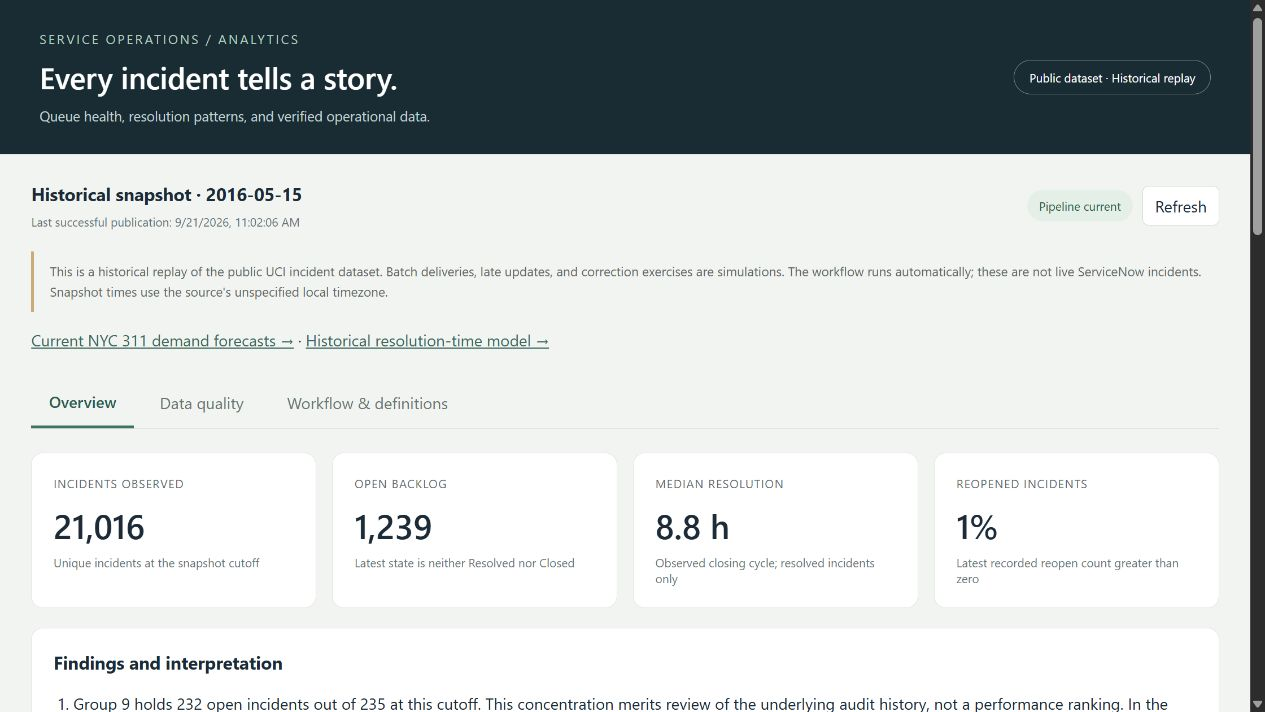
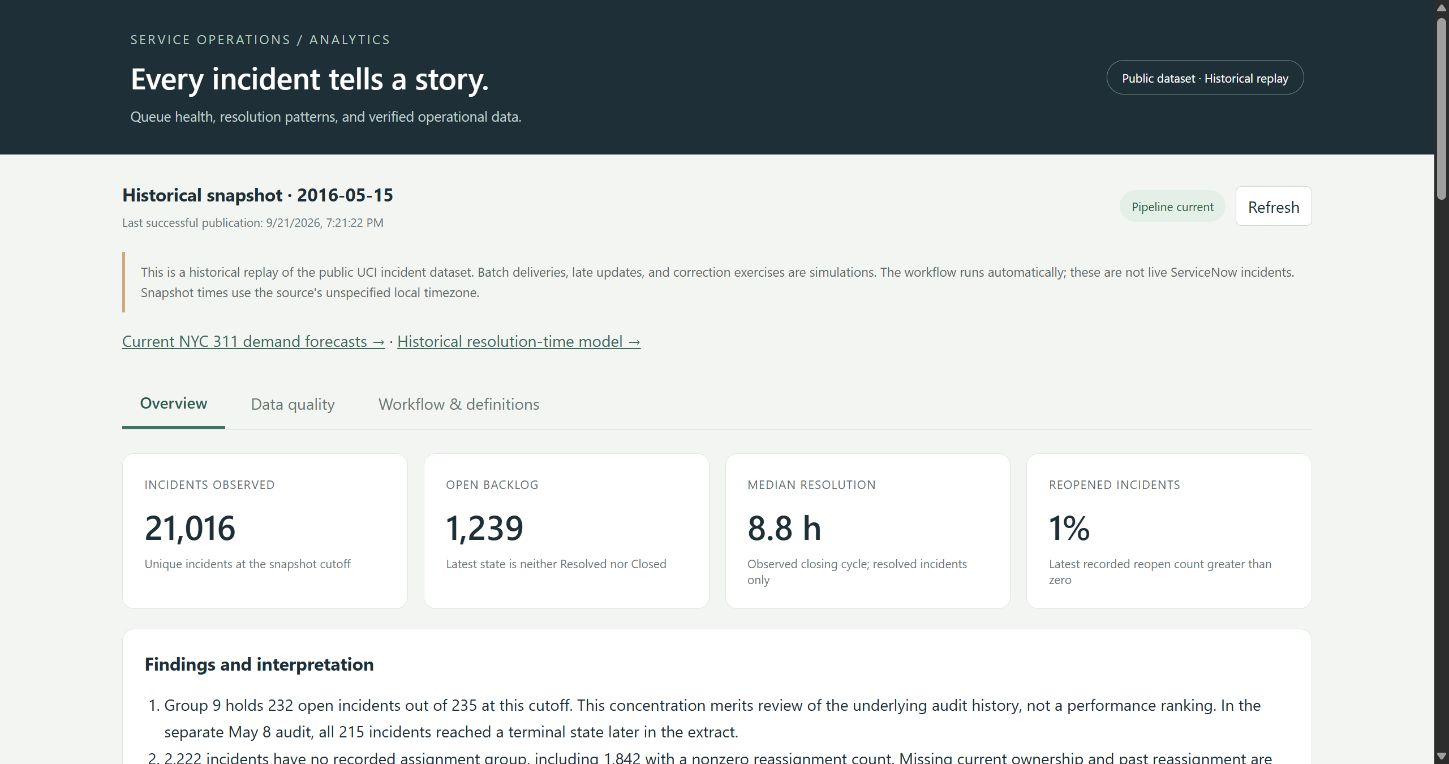
Refresh live screenshots and measured deployment evidence

diff --git a/README.md b/README.md
@@ -8,9 +8,11 @@ The dashboards include a weekday/lead-time error heatmap, interval calibration, 
 
 **[IT dashboard](https://d17q1whdf7htno.cloudfront.net/) · [Current NYC 311 forecasts](https://d17q1whdf7htno.cloudfront.net/forecast/index.html) · [Resolution model](https://d17q1whdf7htno.cloudfront.net/resolution/index.html)**
 
-Screenshots captured from the deployed website on September 21, 2026. The pages continue updating on their scheduled runs.
+Screenshots captured from the deployed website on September 25, 2026. The pages continue updating on their scheduled runs.
 
 ![NYC 311 demand forecast, uncertainty bands and measured model comparisons](docs/assets/forecast.jpg)
+
+![Weekday and lead-time errors beside nominal versus observed interval coverage](docs/assets/diagnostics.jpg)
 
 ![Interactive resolution model with survival probabilities and later-period evaluation](docs/assets/resolution.jpg)
 
@@ -60,13 +62,13 @@ These observations refer to the **May 8, 2016** replay snapshot; the scheduled d
 
 ## Models and measured results
 
-The NYC pipeline compares same-weekday-last-week, four-week weekday means, and seasonal regression using chronological selection, calibration, and test windows. The September 21 publication covers data through September 19; its citywide selected baseline has 4.66% test WAPE. Results change as the rolling window advances. Visitors can compare boroughs, horizons, uncertainty bands, and an illustrative capacity threshold.
+The NYC pipeline compares same-weekday-last-week, four-week weekday means, and seasonal regression using chronological selection, calibration, and test windows. The September 25 evening publication covers data through September 23. Citywide selection favored same-weekday-last-week on the earlier validation window; its test WAPE is 6.11%, versus 4.97% for the four-week mean and 5.12% for seasonal regression. The selection winner is not always the test winner, and the test is not used to revise that choice. Results change as the rolling window advances.
 
 The historical resolution model retains censored cases, splits incidents by time, and compares pooled and priority Kaplan–Meier baselines with a piecewise hazard model. On 3,496 later test incidents, mean censor-adjusted Brier score improves from 0.27417 to 0.26013 (about 5.1%). **Observed-event median MAE does not beat the pooled baseline: 47.71 vs 47.25 hours.** The page exposes priority-level errors and limitations. Inputs remain in the browser; there is no paid inference endpoint.
 
 ## Forecast monitoring and additional signals
 
-The daily job logs predictions before their target dates, scores them after actuals mature, and reports eight weeks of errors and interval coverage. The chart starts empty and fills with real operating evidence. Anonymous page-view totals are aggregated by the same daily job and displayed on all three pages.
+The daily job logs predictions before their target dates, scores them after actuals mature, and reports eight weeks of errors and interval coverage. Published-outcome charts fill with real operating evidence; a separate retrospective chart supplies historical context without inventing live records. Anonymous page-view totals are aggregated by the same daily job and displayed on all three pages.
 
 The weekday baseline intentionally repeats its seven weekday values in a 14-day forecast. Selection is based on an earlier validation window; the page explains the comparison separately from test performance. More complex regression does not win for every borough.
 

diff --git a/docs/costs.md b/docs/costs.md
@@ -1,5 +1,17 @@
 # Measured usage and monthly estimate
 
+## September 25 measurement
+
+Cost Explorer reports **$0.379389 estimated account-wide unblended cost for September 1–25**
+(September 26 end-exclusive), retrieved September 25 at 21:25 New York time. This is
+month-to-date account spending, not a project-only allocation or a finalized monthly bill.
+Versioned storage across the project data and website buckets totals approximately 384.4 MB.
+The first diagnostics release recorded an 87.779-second application run, including source
+fetches. Run times vary with upstream latency; this single observation is not a monthly cost.
+The $2–$5 planning allowance below remains an estimate, and the $25 budget remains an alert.
+
+## Earlier measurements
+
 Updated 20 September 2026 in US East (N. Virginia). Cost Explorer now reports **$0.23494 account-wide unblended cost** for September 1–19 (September 20 end-exclusive), marked **Estimated**. This is a partial-month account measurement, not a finalized invoice or a project-only allocation. It includes $0.20607 Glue, $0.01842 S3, $0.01 tax, and small other charges. It must not be extrapolated as a complete monthly bill.
 
 The daily NYC forecast ran automatically on September 20: 7.090 seconds execution, 7.411 seconds billed, 512 MB configured, 105 MB peak memory. At $0.0000166667 per GB-second, 31 similar invocations cost about **$0.0019/month in Lambda compute alone**, before free allowances. Requests, monitoring, logs, storage, and website delivery are additional. The historical resolution model trains locally and uses static browser inference.
